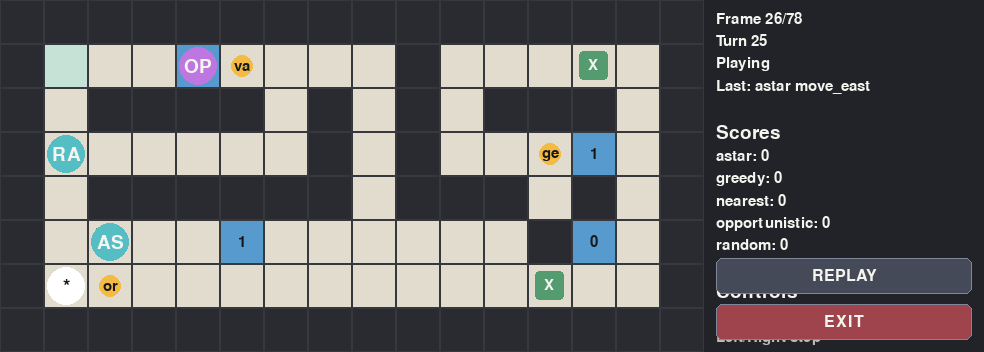
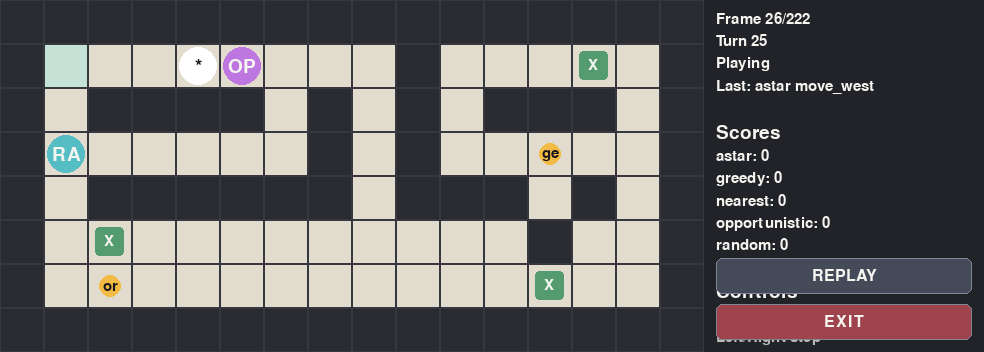
Remove portals from game rules

diff --git a/dungeon_delivery/core.py b/dungeon_delivery/core.py
@@ -200,7 +200,6 @@ class Observation:
     max_turns: int
     round_number: int
     terrain_costs: Mapping[str, int]
-    portals: Mapping[str, tuple[Position, ...]]
 
     def get_cell(self, position: Position) -> str:
         """Return the map character at ``position``."""
@@ -227,7 +226,7 @@ class Observation:
     def neighbors(
         self, position: Position, keys: set[str] | frozenset[str] | None = None
     ) -> list[tuple[Position, Action, int]]:
-        """Return passable neighboring positions after portal teleportation.
+        """Return passable neighboring positions.
 
         Each item is ``(next_position, action, movement_cost)``.
         """
@@ -239,8 +238,7 @@ class Observation:
             if not self.is_passable(raw_next, keys):
                 continue
             cost = self.get_cell_cost(raw_next)
-            final_next = apply_portal(raw_next, self.grid, self.portals)
-            result.append((final_next, action, cost))
+            result.append((raw_next, action, cost))
         return result
 
     def estimate_path_cost(
@@ -250,7 +248,7 @@ class Observation:
 
         The ``keys`` argument is accepted for API consistency with richer
         planning helpers, but this deliberately simple estimate ignores keys,
-        walls, doors, terrain costs, portals, packages, and other agents.
+        walls, doors, terrain costs, packages, and other agents.
         """
 
         return abs(start[0] - goal[0]) + abs(start[1] - goal[1])
@@ -292,23 +290,12 @@ def find_start_positions(grid: tuple[str, ...]) -> list[Position]:
     return [(r, c) for r, row in enumerate(grid) for c, ch in enumerate(row) if ch == "S"]
 
 
-def find_portals(grid: tuple[str, ...]) -> dict[str, tuple[Position, ...]]:
-    """Return portal labels mapped to sorted positions."""
-
-    portals: dict[str, list[Position]] = {}
-    for r, row in enumerate(grid):
-        for c, ch in enumerate(row):
-            if ch.isdigit():
-                portals.setdefault(ch, []).append((r, c))
-    return {label: tuple(sorted(positions)) for label, positions in portals.items()}
-
-
 def cell_cost(cell: str, terrain_costs: Mapping[str, int]) -> int:
     """Return cost of entering a cell character."""
 
     if cell in terrain_costs:
         return terrain_costs[cell]
-    if cell.islower() or cell.isupper() or cell.isdigit():
+    if cell.islower() or cell.isupper():
         return 1
     return 1
 
@@ -327,19 +314,6 @@ def is_passable_cell(
     if cell.isupper() and cell != "S":
         return cell.lower() in keys
     return True
-
-
-def apply_portal(position: Position, grid: tuple[str, ...], portals: Mapping[str, tuple[Position, ...]]) -> Position:
-    """Return final position after deterministic portal teleportation."""
-
-    cell = grid[position[0]][position[1]]
-    if not cell.isdigit():
-        return position
-    positions = portals.get(cell, ())
-    if len(positions) < 2:
-        return position
-    index = positions.index(position)
-    return positions[(index + 1) % len(positions)]
 
 
 def render_board(state: GameState) -> str:
@@ -371,7 +345,7 @@ def render_snapshot(grid: tuple[str, ...], packages: Mapping[str, Package], snap
     for package in packages.values():
         if package.package_id not in snapshot.delivered_packages:
             dr, dc = package.destination
-            if cells[dr][dc] in ".S~^" or cells[dr][dc].isdigit():
+            if cells[dr][dc] in ".S~^":
                 cells[dr][dc] = "x"
     for package_id in snapshot.available_packages:
         package = packages[package_id]
@@ -409,7 +383,6 @@ class DungeonDeliveryGame:
             name = getattr(agents[agent_id], "name", agent_id)
             state_agents[agent_id] = AgentState(agent_id=agent_id, name=name, position=start)
         self.turn_order = turn_order or agent_ids
-        self.portals = find_portals(config.grid)
         package_map = {package.package_id: package for package in config.packages}
         self.state = GameState(
             grid=config.grid,
@@ -516,7 +489,6 @@ class DungeonDeliveryGame:
             max_turns=self.state.max_turns,
             round_number=self.state.round_number,
             terrain_costs=MappingProxyType(dict(self.state.terrain_costs)),
-            portals=MappingProxyType(self.portals),
         )
         return observation
 
@@ -549,13 +521,10 @@ class DungeonDeliveryGame:
             dr, dc = action.direction.value
             raw_next = (agent.position[0] + dr, agent.position[1] + dc)
             cost = cell_cost(self.state.grid[raw_next[0]][raw_next[1]], self.state.terrain_costs)
-            agent.position = apply_portal(raw_next, self.state.grid, self.portals)
-            final_cell = self.state.grid[agent.position[0]][agent.position[1]]
+            agent.position = raw_next
             raw_cell = self.state.grid[raw_next[0]][raw_next[1]]
             if raw_cell.islower():
                 agent.collected_keys.add(raw_cell)
-            if final_cell.islower():
-                agent.collected_keys.add(final_cell)
             agent.delay_counter = max(0, cost - 1)
             return
 

diff --git a/dungeon_delivery/maps.py b/dungeon_delivery/maps.py
@@ -92,15 +92,15 @@ DOOR_AND_KEY = MapSpec(
     description="Two keys unlock higher-value routes, but there are still fallback deliveries.",
 )
 
-PORTAL_MAP = MapSpec(
-    name="portal_map",
+MAZE_MAP = MapSpec(
+    name="maze_map",
     grid=(
         "################",
-        "#S..0....#.....#",
+        "#S.......#.....#",
         "#.####.#.#.###.#",
-        "#......#.#...1.#",
+        "#......#.#.....#",
         "#.######.###.#.#",
-        "#....1......#0.#",
+        "#...........#..#",
         "#..............#",
         "################",
     ),
@@ -109,21 +109,21 @@ PORTAL_MAP = MapSpec(
         Package("gem", position=(3, 12), destination=(5, 2), value=28),
         Package("vase", position=(1, 5), destination=(6, 12), value=18),
     ),
-    max_turns=260,
-    description="Portals create shortcuts, but using the wrong one can send agents away from good packages.",
+    max_turns=300,
+    description="A maze-like map where corridor structure makes route planning important.",
 )
 
 COMPETITIVE_MAP = MapSpec(
     name="competitive_map",
     grid=(
         "##################",
-        "#S....~....0.....#",
+        "#S....~..........#",
         "#.###.###.##.###.#",
-        "#a..A.....0...#..#",
+        "#a..A.........#..#",
         "#....^^.#####.#..#",
         "#.######.....#...#",
         "#......#..b..B...#",
-        "#..1...#.....#1..#",
+        "#......#.....#...#",
         "##################",
     ),
     packages=(
@@ -135,24 +135,24 @@ COMPETITIVE_MAP = MapSpec(
         Package("book", position=(3, 15), destination=(6, 2), value=26),
     ),
     max_turns=380,
-    description="A larger competitive board with keys, doors, portals, traps, and value/distance tradeoffs.",
+    description="A larger competitive board with keys, doors, traps, and value/distance tradeoffs.",
 )
 
 GAUNTLET_MAP = MapSpec(
     name="gauntlet_map",
     grid=(
         "####################",
-        "#S...~....#....0...#",
+        "#S...~....#........#",
         "#.###.##..#.######.#",
         "#...#..#..#....#...#",
         "###.#..#..####.#.^##",
         "#a..#..A.....#.#...#",
         "#.#####.###..#.#.#.#",
         "#.....#...#..#...#.#",
-        "#.1...###.#..###.#.#",
-        "#.....#...#....bB#0#",
+        "#.....###.#..###.#.#",
+        "#.....#...#....bB#.#",
         "#..^..#...####...#.#",
-        "#.....1..........#.#",
+        "#................#.#",
         "####################",
     ),
     packages=(
@@ -163,14 +163,14 @@ GAUNTLET_MAP = MapSpec(
         Package("quartz", position=(8, 2), destination=(9, 18), value=28),
     ),
     max_turns=460,
-    description="A long-form challenge map where portals and keys matter over many turns.",
+    description="A long-form challenge map where keys, doors, traps, and corridors matter over many turns.",
 )
 
 FIXED_MAPS: tuple[MapSpec, ...] = (
     SIMPLE_OPEN,
     MUD_SHORTCUT,
     DOOR_AND_KEY,
-    PORTAL_MAP,
+    MAZE_MAP,
     COMPETITIVE_MAP,
     GAUNTLET_MAP,
 )
@@ -191,7 +191,7 @@ def random_open_map(
 ) -> MapSpec:
     """Generate a simple open map with random packages.
 
-    This generator avoids doors and portals so generated maps remain easy to
+    This generator avoids doors so generated maps remain easy to
     reason about in an introductory assignment.
     """
 

diff --git a/examples/replay_pygame.py b/examples/replay_pygame.py
@@ -9,7 +9,7 @@ from __future__ import annotations
 
 import argparse
 
-from dungeon_delivery.maps import COMPETITIVE_MAP, DOOR_AND_KEY, GAUNTLET_MAP, MUD_SHORTCUT, PORTAL_MAP, SIMPLE_OPEN
+from dungeon_delivery.maps import COMPETITIVE_MAP, DOOR_AND_KEY, GAUNTLET_MAP, MAZE_MAP, MUD_SHORTCUT, SIMPLE_OPEN
 from dungeon_delivery.pygame_viewer import replay_tournament
 from dungeon_delivery.tournament import default_baseline_agents, run_tournament
 
@@ -17,7 +17,7 @@ MAPS = {
     "simple": SIMPLE_OPEN,
     "mud": MUD_SHORTCUT,
     "door": DOOR_AND_KEY,
-    "portal": PORTAL_MAP,
+    "maze": MAZE_MAP,
     "competitive": COMPETITIVE_MAP,
     "gauntlet": GAUNTLET_MAP,
 }

diff --git a/tests/test_engine.py b/tests/test_engine.py
@@ -65,19 +65,6 @@ def test_locked_doors_require_keys_and_keys_are_reusable():
     assert game.state.agents["a"].position == (1, 3)
 
 
-def test_portals_teleport_correctly():
-    game = make_game(
-        [
-            "#######",
-            "#S0..0#",
-            "#######",
-        ],
-        agents={"a": ScriptedAgent([ACTIONS["move_east"]])},
-    )
-    game.step("a")
-    assert game.state.agents["a"].position == (1, 5)
-
-
 def test_agents_can_share_cells_and_do_not_block_movement():
     agents = {
         "a": ScriptedAgent([ACTIONS["move_east"]]),

diff --git a/dungeon_delivery/pygame_viewer.py b/dungeon_delivery/pygame_viewer.py
@@ -18,7 +18,6 @@ COLORS = {
     "trap": (177, 72, 72),
     "door": (91, 87, 160),
     "key": (234, 190, 87),
-    "portal": (87, 155, 206),
     "package": (244, 187, 68),
     "destination": (84, 155, 111),
     "text": (245, 245, 240),
@@ -537,8 +536,6 @@ def _cell_color(ch: str) -> tuple[int, int, int]:
         return COLORS["door"]
     if ch.islower():
         return COLORS["key"]
-    if ch.isdigit():
-        return COLORS["portal"]
     return COLORS["floor"]
 
 

diff --git a/README.md b/README.md
@@ -1,6 +1,6 @@
 # Dungeon Delivery: A Search Tournament
 
-Welcome to the Royal Dungeon Courier Service. Valuable magical artifacts must be delivered across a dungeon full of doors, keys, portals, mud, traps, and competing couriers. Your agent is not paid by the hour; it is paid by successful deliveries.
+Welcome to the Royal Dungeon Courier Service. Valuable magical artifacts must be delivered across a dungeon full of doors, keys, mud, traps, and competing couriers. Your agent is not paid by the hour; it is paid by successful deliveries.
 
 ## Overview
 
@@ -75,9 +75,9 @@ The `Observation` object is a read-only view of the current game. It includes th
 - `neighbors(position, keys)`
 - `estimate_path_cost(start, goal, keys)`
 
-The `estimate_path_cost(start, goal, keys)` helper intentionally returns a simple Manhattan-distance estimate: `abs(start_row - goal_row) + abs(start_col - goal_col)`. It does not run BFS, uniform-cost search, or A*. It also ignores walls, terrain costs, doors, keys, portals, packages, and other agents. The `keys` argument is accepted so the helper has the same shape as richer planning code, but this basic estimate does not use it.
+The `estimate_path_cost(start, goal, keys)` helper intentionally returns a simple Manhattan-distance estimate: `abs(start_row - goal_row) + abs(start_col - goal_col)`. It does not run BFS, uniform-cost search, or A*. It also ignores walls, terrain costs, doors, keys, packages, and other agents. The `keys` argument is accepted so the helper has the same shape as richer planning code, but this basic estimate does not use it.
 
-This is deliberately a weak estimate. It is useful for quick target scoring and for simple heuristics, but students still need to implement real search if they want paths that account for weighted terrain, doors, portals, and reachability.
+This is deliberately a weak estimate. It is useful for quick target scoring and for simple heuristics, but students still need to implement real search if they want paths that account for weighted terrain, doors, and reachability.
 
 Agents do not receive direct mutable game state, hidden random seeds, or private engine internals.
 
@@ -109,17 +109,15 @@ This fixed per-round order is also the tie-breaker for contested pickups. If two
 
 The movement cost of a cell is the cost of entering that cell. Entering mud costs 3, so the agent moves into the mud cell immediately and then skips its next 2 scheduled turns. Entering a trap costs 5, so the agent skips its next 4 scheduled turns. Therefore, good agents should minimize total movement cost, not just the number of moves.
 
-The start cell, normal floor, keys, passable doors, and portals cost 1. Mud costs 3. Traps cost 5. Pickup, delivery, and waiting each consume one scheduled turn.
+The start cell, normal floor, keys, and passable doors cost 1. Mud costs 3. Traps cost 5. Pickup, delivery, and waiting each consume one scheduled turn.
 
-## Doors, Keys, and Portals
+## Doors and Keys
 
 Uppercase letters are locked doors. Door `A` requires key `a`. Keys are reusable and non-exclusive: moving onto a key cell gives that key to the agent, and the key remains available to other agents.
 
-Digits are portals. Entering one portal cell pays the cost of entering that cell and immediately teleports the agent to the matching portal cell. With more than two matching portals, teleportation goes to the next one in sorted order.
-
 ## Search Guidance
 
-BFS is suitable only when all movement costs are equal. Uniform-cost search handles weighted terrain. A* can be faster if the heuristic is informative. The provided A* baseline uses Manhattan distance times the minimum terrain cost, which is admissible for ordinary grid movement and still useful on maps with portals.
+BFS is suitable only when all movement costs are equal. Uniform-cost search handles weighted terrain. A* can be faster if the heuristic is informative. The provided A* baseline uses Manhattan distance times the minimum terrain cost, which is admissible for ordinary grid movement in these maps.
 
 Replanning is important because other agents can take packages before you reach them. Greedy target selection can be improved using value/distance ratios, estimated delivery cost, and whether another agent appears likely to reach a package first.
 
@@ -137,11 +135,11 @@ For simple pathfinding to a fixed target, a search state can be just `position`.
 
 ## Replay Visualization
 
-The engine records lightweight snapshots for every scheduled turn. This allows hindsight visualization without changing the headless tournament engine used for grading. After a tournament finishes, students can open a pygame replay window, choose which round to inspect, and watch the agents move through the dungeon one scheduled turn at a time. This is useful for debugging search behavior: students can see when an agent chooses a muddy shortcut, gets delayed by terrain, loses a package race because another agent picked it up first, uses a portal, or replans after a package disappears.
+The engine records lightweight snapshots for every scheduled turn. This allows hindsight visualization without changing the headless tournament engine used for grading. After a tournament finishes, students can open a pygame replay window, choose which round to inspect, and watch the agents move through the dungeon one scheduled turn at a time. This is useful for debugging search behavior: students can see when an agent chooses a muddy shortcut, gets delayed by terrain, loses a package race because another agent picked it up first, passes through a locked door, or replans after a package disappears.
 
 ![Dungeon Delivery pygame replay screenshot](docs/pygame_replay_screenshot.png)
 
-Use `dungeon_delivery.pygame_viewer.replay_result(result)` to open an animated pygame window for one completed `GameResult`, or `replay_tournament(tournament_result)` to choose among many rounds inside the pygame window. The viewer shows the map terrain, walls, keys, doors, portals, agents, available packages, package destinations, scores, current frame, current turn, and the last action taken. Press Space to pause, Left/Right to step, R or REPLAY to restart, SELECT GAME to return to the menu, and Esc or EXIT to quit.
+Use `dungeon_delivery.pygame_viewer.replay_result(result)` to open an animated pygame window for one completed `GameResult`, or `replay_tournament(tournament_result)` to choose among many rounds inside the pygame window. The viewer shows the map terrain, walls, keys, doors, agents, available packages, package destinations, scores, current frame, current turn, and the last action taken. Press Space to pause, Left/Right to step, R or REPLAY to restart, SELECT GAME to return to the menu, and Esc or EXIT to quit.
 
 ```python
 from dungeon_delivery.pygame_viewer import replay_result, replay_tournament
@@ -172,7 +170,6 @@ Additionally, students will be asked 3 questions about their code. Each incorrec
 - Compare BFS, UCS, and A*.
 - Add terrain costs.
 - Add support for doors and keys.
-- Add support for portals.
 - Choose packages using value and estimated delivery cost.
 - Optionally account for whether another agent is likely to pick up a target package first.
 - Replan every turn.
